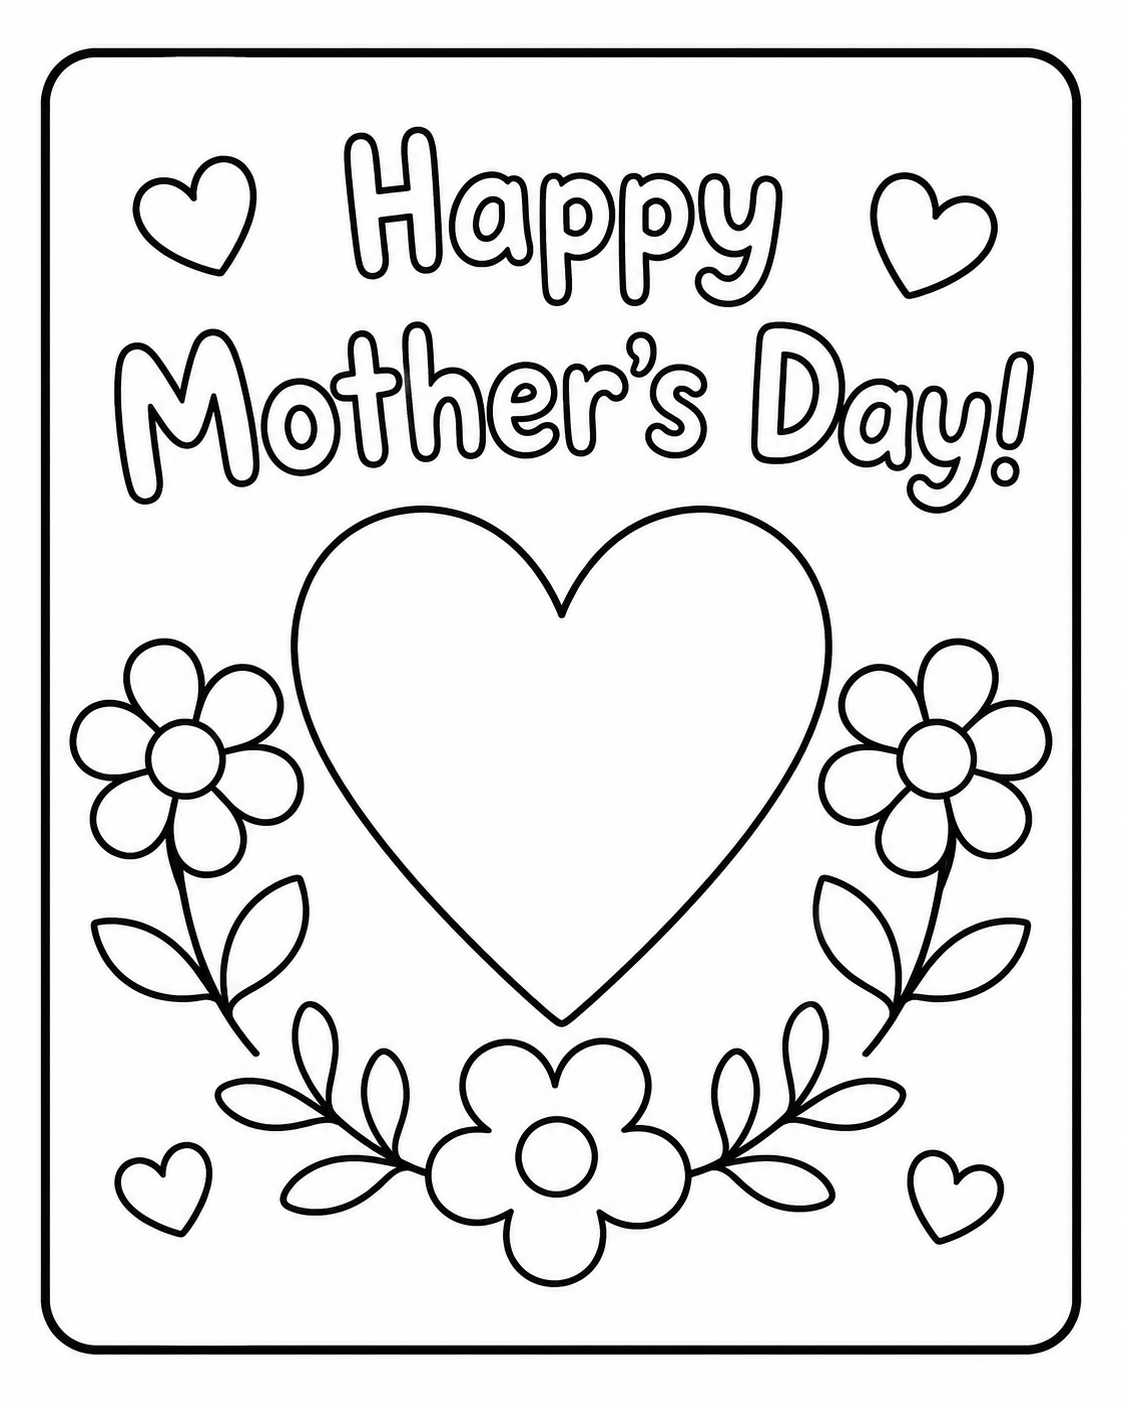
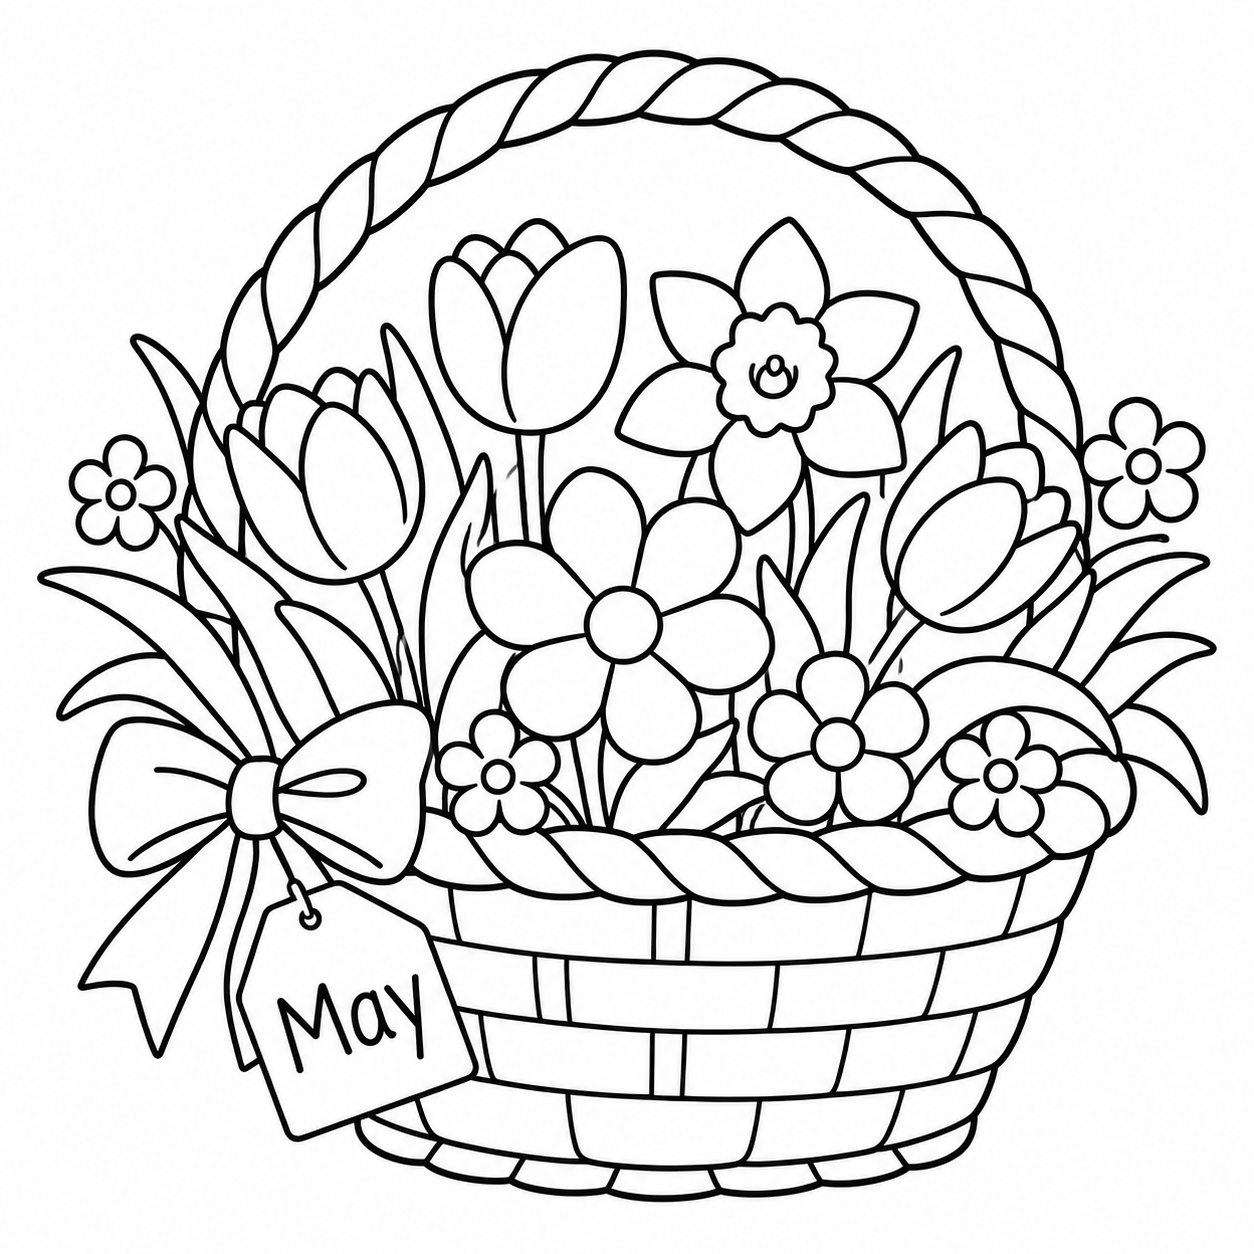
Fix May 1 universal prompt — May basket instead of Mother's Day card (Mother's Day is May 10)

diff --git a/v2/src/content/themes/universal/activities.ts b/v2/src/content/themes/universal/activities.ts
@@ -166,7 +166,7 @@ export const universalActivities: ActivityMap = {
   '4-30': { word: 'pond',      subject: 'a spring pond',             instruction: 'Color the pond blue and the lily pads green!',      colorWord: 'blue',   tags: [] },
 
   // ── May ───────────────────────────────────────────────────
-  '5-1':  { word: 'mom',       subject: "a Mother's Day card",       instruction: "Color the Mother's Day card pink and gold!",        colorWord: 'pink',   tags: [] },
+  '5-1':  { word: 'May',       subject: 'a May basket of spring flowers', instruction: 'Color the May basket with bright spring colors!',  colorWord: 'pink',   tags: [] },
   '5-2':  { word: 'rose',      subject: 'roses',                     instruction: 'Color the roses red!',                              colorWord: 'red',    tags: [] },
   '5-3':  { word: 'sun',       subject: 'the bright May sun',        instruction: 'Color the sun yellow!',                             colorWord: 'yellow', tags: [] },
   '5-4':  { word: 'bird',      subject: 'a mother bird and nest',    instruction: 'Color the mama bird and her nest!',                 colorWord: 'brown',  tags: [] },
